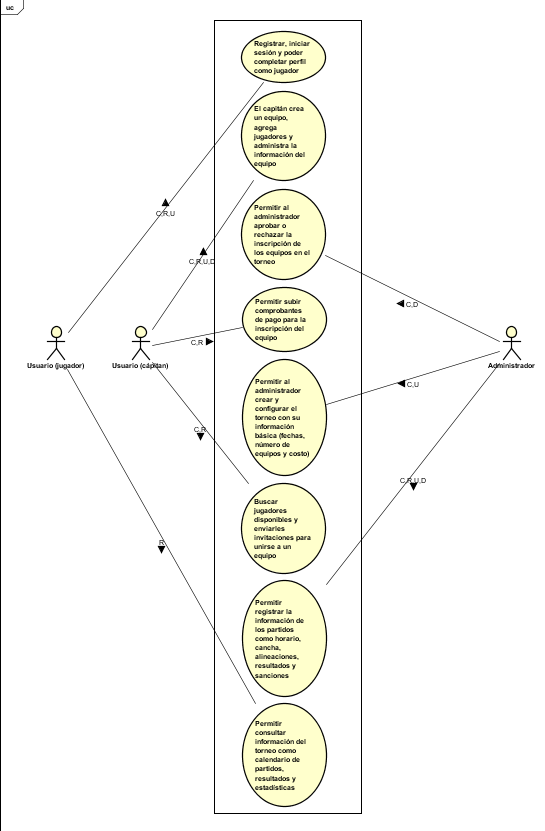
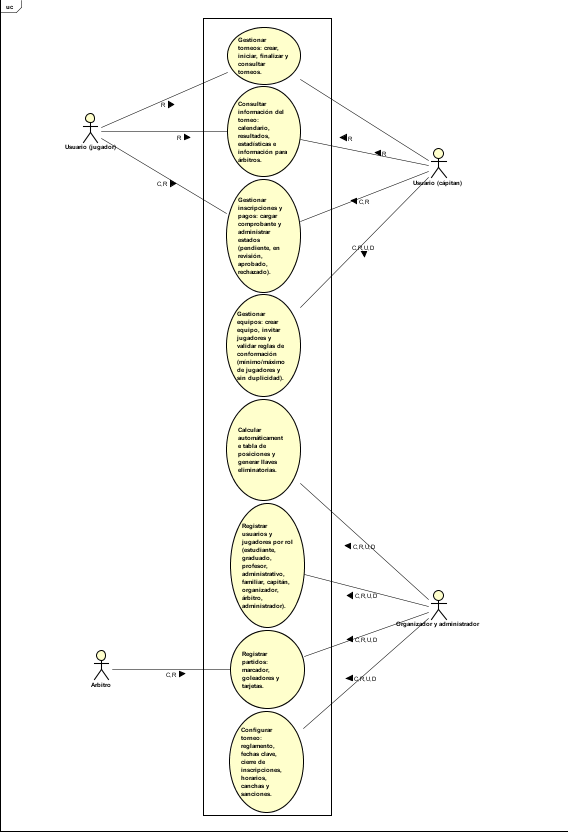
actuañización markdown

diff --git a/docs/requirements/requirements.md b/docs/requirements/requirements.md
@@ -480,8 +480,11 @@ RF-008: Consultar Información del Torneo (Calendario, resultados, estadísticas
 
 ## Anexos
 
-Diagramas de Casos de Uso:
-![alt text](../images/Diagrama-Casos-De-Uso.png)
+Diagrama de Casos de Uso:
+
+[Diagrama-Casos-De-Uso3.asta](..%2Fuml%2FDiagrama-Casos-De-Uso3.asta)
+
+![Diagrama-Casos-De-Uso.png](..%2Fimages%2FDiagrama-Casos-De-Uso.png)
 
 ## Mockup:
 
